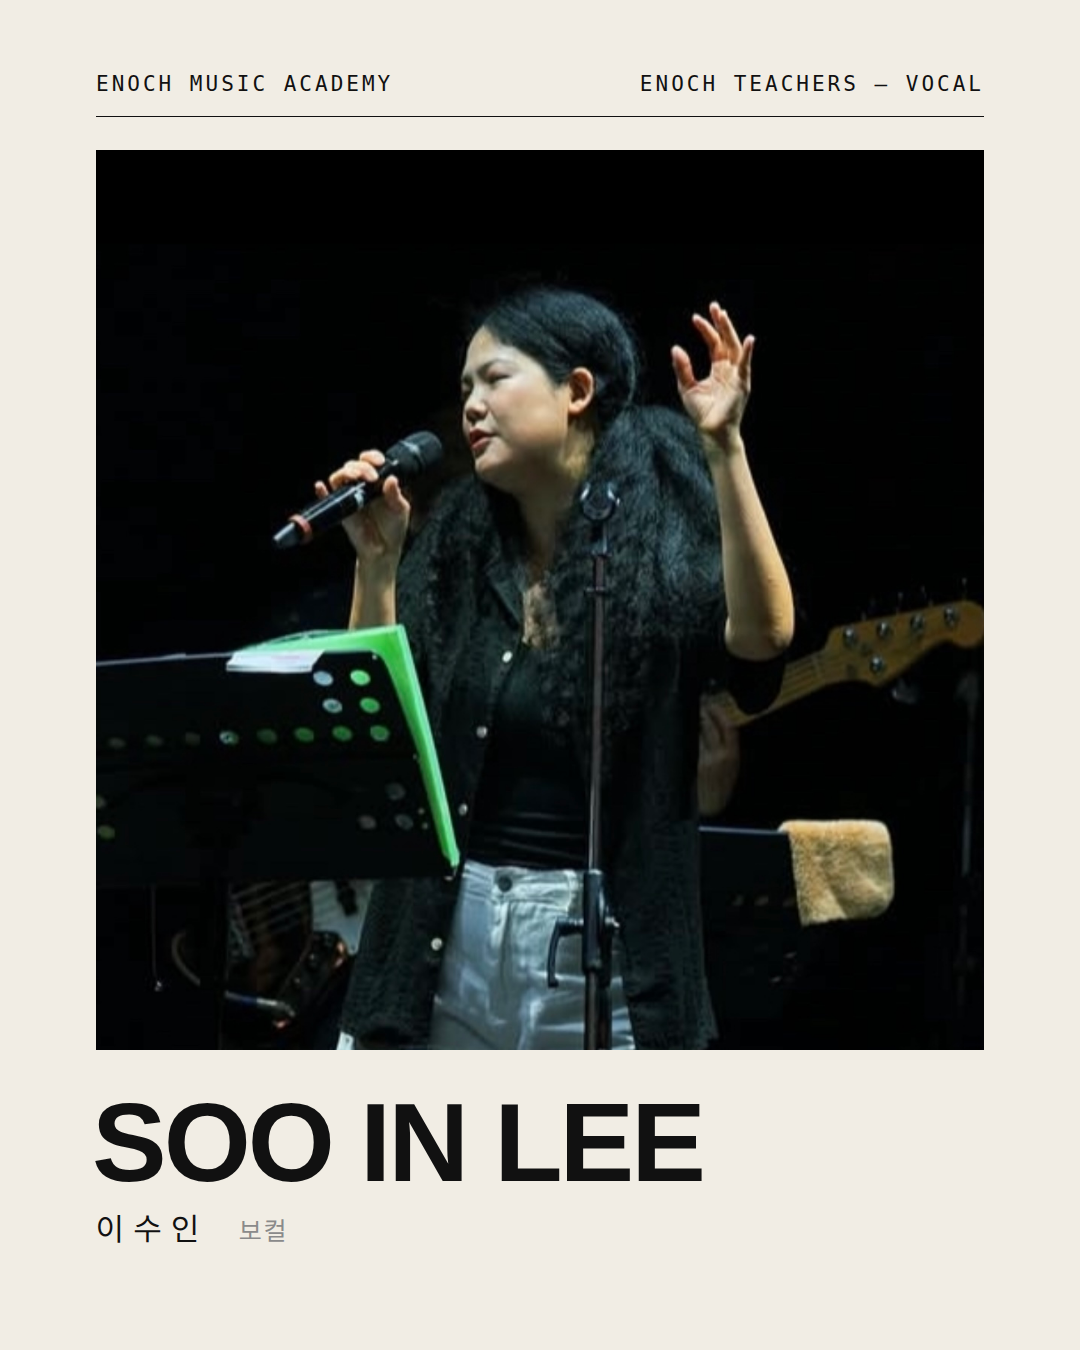
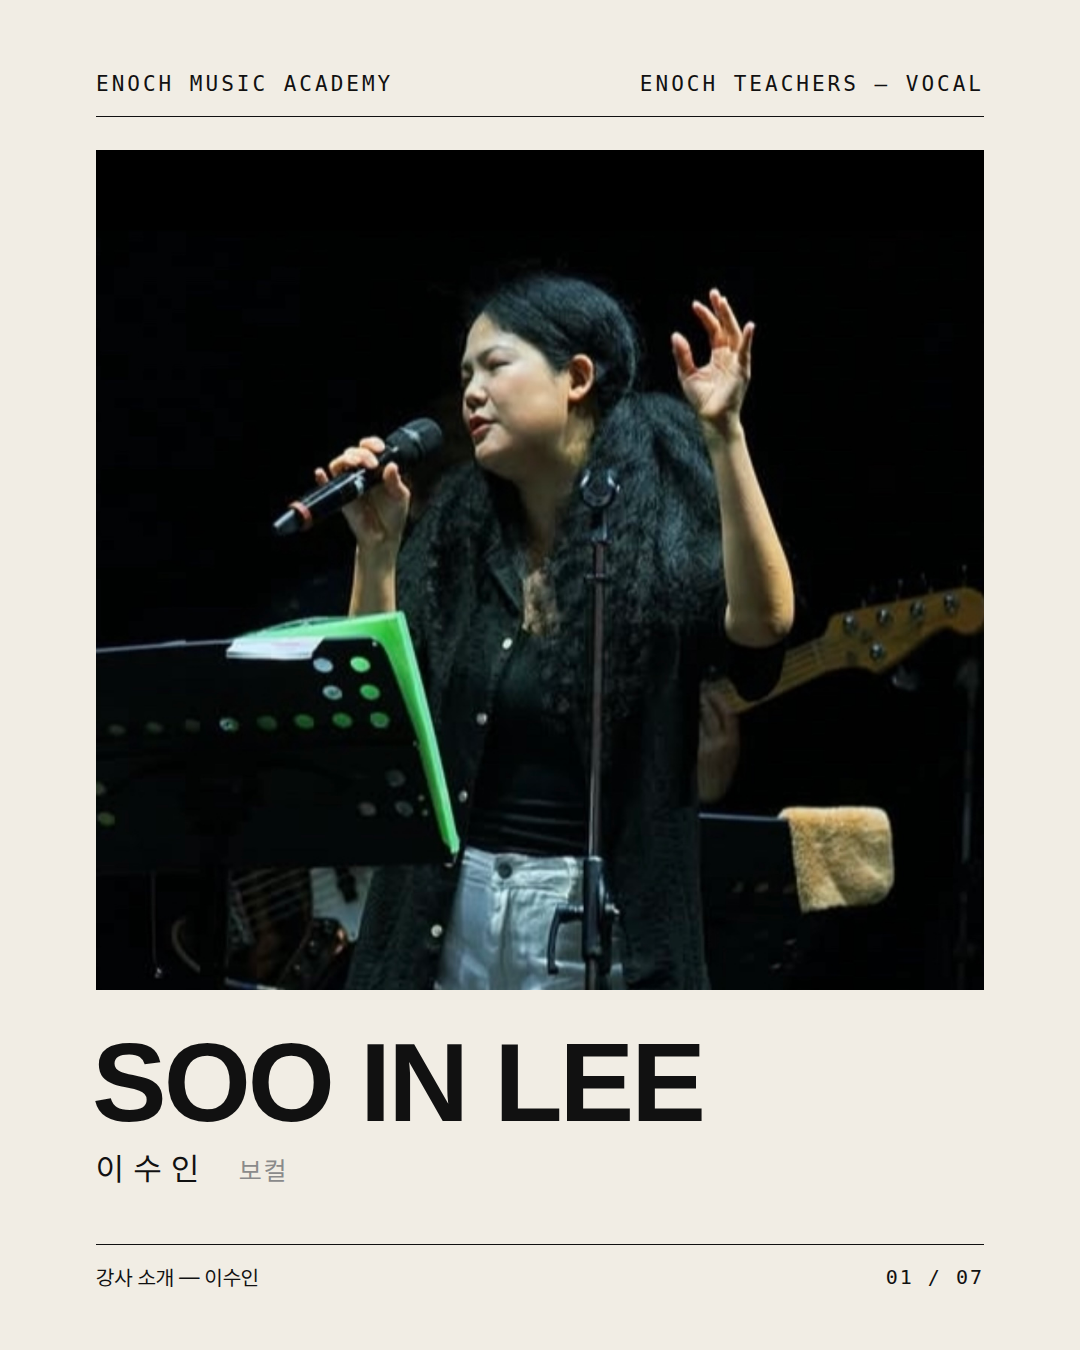
강사 소개 이수인 블로그: 타이포그래피 7장으로
Claude-Session: https://claude.ai/code/session_01HGbZvgMeYrbU7mY8bwfjyb

diff --git a/output/강사소개_이수인/blog.html b/output/강사소개_이수인/blog.html
@@ -14,31 +14,43 @@
 .en{font-family:var(--en);font-weight:700;letter-spacing:-3px;line-height:.95}
 .row{display:grid;grid-template-columns:170px 1fr;padding:22px 0;border-bottom:1px solid rgba(17,17,17,.16);font-size:27px;line-height:1.55;letter-spacing:-.5px}
 .row .k{padding-top:6px}
+.dark{background:var(--bk);color:var(--iv)}
+.big{position:absolute;left:92px;font-family:var(--en);font-weight:700;letter-spacing:-5px;line-height:.92}
+.ko2{position:absolute;left:96px;right:96px;font-size:44px;font-weight:600;letter-spacing:-1.5px;line-height:1.4}
+.sub{position:absolute;left:96px;right:96px;font-size:28px;line-height:1.7;color:var(--b);letter-spacing:-.5px}
+.dark .sub{color:#C9C4BB}
+.lbl{position:absolute;left:96px;top:190px}
 </style></head><body>
-<!-- 1: 전신 사진 크게 -->
 <section class="s" id="b1">
   <div class="hd"><span>ENOCH MUSIC ACADEMY</span><span>ENOCH TEACHERS — VOCAL</span></div>
-  <div class="ph" style="left:96px;right:96px;top:150px;height:900px;background-size:100% auto;background-position:50% 22%"></div>
-  <div class="en" style="position:absolute;left:92px;top:1090px;font-size:112px">SOO IN LEE</div>
-  <div style="position:absolute;left:96px;top:1210px;font-size:32px;letter-spacing:10px">이수인 <span style="color:var(--g);letter-spacing:2px;font-size:26px;margin-left:12px">보컬</span></div>
-</section>
-<!-- 2: 클로즈업 + 약력 -->
-<section class="s" id="b2">
-  <div class="hd"><span>ENOCH MUSIC ACADEMY</span><span>ENOCH TEACHERS — VOCAL</span></div>
-  <div class="en" style="position:absolute;left:92px;top:190px;font-size:96px">SOO IN LEE</div>
-  <div style="position:absolute;left:96px;top:300px;font-size:30px;letter-spacing:10px">이수인 <span style="color:var(--g);letter-spacing:2px;font-size:24px;margin-left:12px">보컬</span></div>
-  <div style="position:absolute;left:96px;right:96px;top:440px;border-top:1.5px solid var(--bk)">
-    <div class="row"><span class="k">Education</span><span>호원대학교 실용음악과 보컬 전공</span></div>
-    <div class="row"><span class="k">Album</span><span>김조한 6집 [Once in a Lifetime]<br>수록곡 〈Lover &amp; Friend〉 듀엣</span></div>
-    <div class="row"><span class="k">Session</span><span>조성모 · 김조한 · 김태우 · 알리 · 더원 · DK · 서인영 등<br>방송 · 콘서트 코러스 세션</span></div>
-  </div>
-  <div class="ft"><span>강사 소개 — 이수인</span><span>02 / 03</span></div>
-</section>
-<!-- 3: 세로 세 컷 + 마무리 -->
-<section class="s" id="b3">
-  <div class="hd"><span>ENOCH MUSIC ACADEMY</span><span>THE ENOCH WAY</span></div>
-  <div style="position:absolute;left:92px;top:300px;font-size:76px;font-weight:700;letter-spacing:-3px;line-height:1.2">여러 목소리와 맞춰 온 귀,<br><span style="font-weight:300">1:1로.</span></div>
-  <div style="position:absolute;left:96px;right:96px;top:560px;font-size:29px;line-height:1.75;color:var(--b)">같은 곡도, 사람마다 다르게 가르칩니다.<br>ENOCH 보컬 레슨은 입시 · 취미 · 성인 · 전문, 모든 과정이 1:1입니다.</div>
-  <div class="ft"><span>에녹실용음악학원 시흥점 · 경기도 시흥시 은행로 157 2층</span><span>010 3949 3666</span></div>
-</section>
-</body></html>
+  <div class="ph" style="left:96px;right:96px;top:150px;height:840px;background-size:100% auto;background-position:50% 22%"></div>
+  <div class="en" style="position:absolute;left:92px;top:1030px;font-size:112px">SOO IN LEE</div>
+  <div style="position:absolute;left:96px;top:1150px;font-size:32px;letter-spacing:10px">이수인 <span style="color:var(--g);letter-spacing:2px;font-size:26px;margin-left:12px">보컬</span></div>
+<div class="ft"><span>강사 소개 — 이수인</span><span>01 / 07</span></div></section><section class="s dark" id="b2"><div class="hd"><span>ENOCH MUSIC ACADEMY</span><span>ENOCH TEACHERS — VOCAL</span></div>
+<div class="lbl k">Teacher</div>
+<div class="big" style="top:250px;font-size:250px">SOO<br>IN<br>LEE</div>
+<div class="ko2" style="top:1010px;letter-spacing:14px;font-weight:400">이수인</div>
+<div class="sub" style="top:1090px"><span style="color:#DDE37C">●</span>&nbsp; Vocal · 1:1 Lesson</div>
+<div class="ft"><span>강사 소개 — 이수인</span><span>02 / 07</span></div></section><section class="s" id="b3"><div class="hd"><span>ENOCH MUSIC ACADEMY</span><span>CAREER — EDUCATION</span></div>
+<div class="lbl k">Education</div>
+<div class="big" style="top:250px;font-size:150px;color:var(--g);font-weight:300">HOWON<br>UNIV.</div>
+<div class="ko2" style="top:620px">호원대학교 실용음악과<br>보컬 전공</div>
+<div class="ft"><span>강사 소개 — 이수인</span><span>03 / 07</span></div></section><section class="s" id="b4"><div class="hd"><span>ENOCH MUSIC ACADEMY</span><span>CAREER — ALBUM</span></div>
+<div class="lbl k">Album · Duet</div>
+<div class="big" style="top:250px;font-size:136px">LOVER<br>&amp; FRIEND</div>
+<div class="ko2" style="top:600px">김조한 6집 [Once in a Lifetime]<br>수록곡 듀엣</div>
+<div class="ft"><span>강사 소개 — 이수인</span><span>04 / 07</span></div></section><section class="s dark" id="b5"><div class="hd"><span>ENOCH MUSIC ACADEMY</span><span>CAREER — SESSION</span></div>
+<div class="lbl k">Chorus Session</div>
+<div style="position:absolute;left:92px;right:96px;top:250px;font-size:92px;font-weight:700;letter-spacing:-3.5px;line-height:1.18">조성모 · 김조한 · 김태우<br>알리 · 더원 · DK<br>서인영 <span style="font-weight:300;color:#8C8C8C">등</span></div>
+<div class="sub" style="top:690px">방송 · 콘서트 코러스 세션</div>
+<div class="ft"><span>강사 소개 — 이수인</span><span>05 / 07</span></div></section><section class="s" id="b6"><div class="hd"><span>ENOCH MUSIC ACADEMY</span><span>LESSON</span></div>
+<div class="lbl k">Lesson</div>
+<div class="big" style="top:240px;font-size:330px;letter-spacing:-12px">1:1</div>
+<div class="ko2" style="top:600px">입시 · 취미 · 성인 · 전문,<br>모든 과정이 1:1입니다.</div>
+<div class="sub" style="top:760px">같은 곡도, 사람마다 다르게 가르칩니다.</div>
+<div class="ft"><span>강사 소개 — 이수인</span><span>06 / 07</span></div></section><section class="s dark" id="b7"><div class="hd"><span>ENOCH MUSIC ACADEMY</span><span>THE ENOCH WAY</span></div>
+<div style="position:absolute;left:84px;top:150px;font-family:var(--en);font-weight:700;font-size:240px;letter-spacing:-8px;color:#2A2825;line-height:1">ENOCH</div>
+<div style="position:absolute;left:92px;top:450px;font-size:76px;font-weight:700;letter-spacing:-3px;line-height:1.2">여러 목소리와 맞춰 온 귀,<br><span style="font-weight:300">1:1로.</span></div>
+<div class="sub" style="top:720px">나만의 진짜 소리를 찾는 곳.</div>
+<div style="position:absolute;left:96px;right:96px;top:1040px;padding-top:22px;border-top:1px solid rgba(241,237,228,.3);display:flex;justify-content:space-between;font-size:22px;line-height:1.6"><span>에녹실용음악학원 시흥점<br><span style="color:#9A958C">경기도 시흥시 은행로 157 2층</span></span><span style="text-align:right;font-family:var(--mono)">010 3949 3666<br><span style="color:#9A958C;font-family:P,sans-serif;font-size:19px">Vocal · Guitar · Drum · Bass · Piano · MIDI · 작곡</span></span></div>
+<div class="ft"><span>강사 소개 — 이수인</span><span>07 / 07</span></div></section></body></html>

diff --git a/output/강사소개_이수인/review.md b/output/강사소개_이수인/review.md
@@ -3,4 +3,4 @@
 - 사진: 원장님 제공 무대 사진(`images/강사/이수인_01.jpg`), 컬러.
 - 약력 3줄이라 상세 약력 장 없이 표지에 모두 넣음.
 - 앨범명 표기 "Once in a Lifetime", 곡명 "Lover & Friend"는 원장님 문구 기준 — 정식 표기 확인 필요.
-- 블로그용 blog_01–03 (1080×1350, 아이보리). 사진은 1장에만, 2·3장은 글자만 (원장님 요청 2026-10-13).
+- 블로그용 blog_01–07 (1080×1350). 사진은 1장만, 2–7장은 타이포그래피(이름 · 학력 · 앨범 · 세션 · 1:1 · 마무리). 원장님 요청 2026-10-13.
